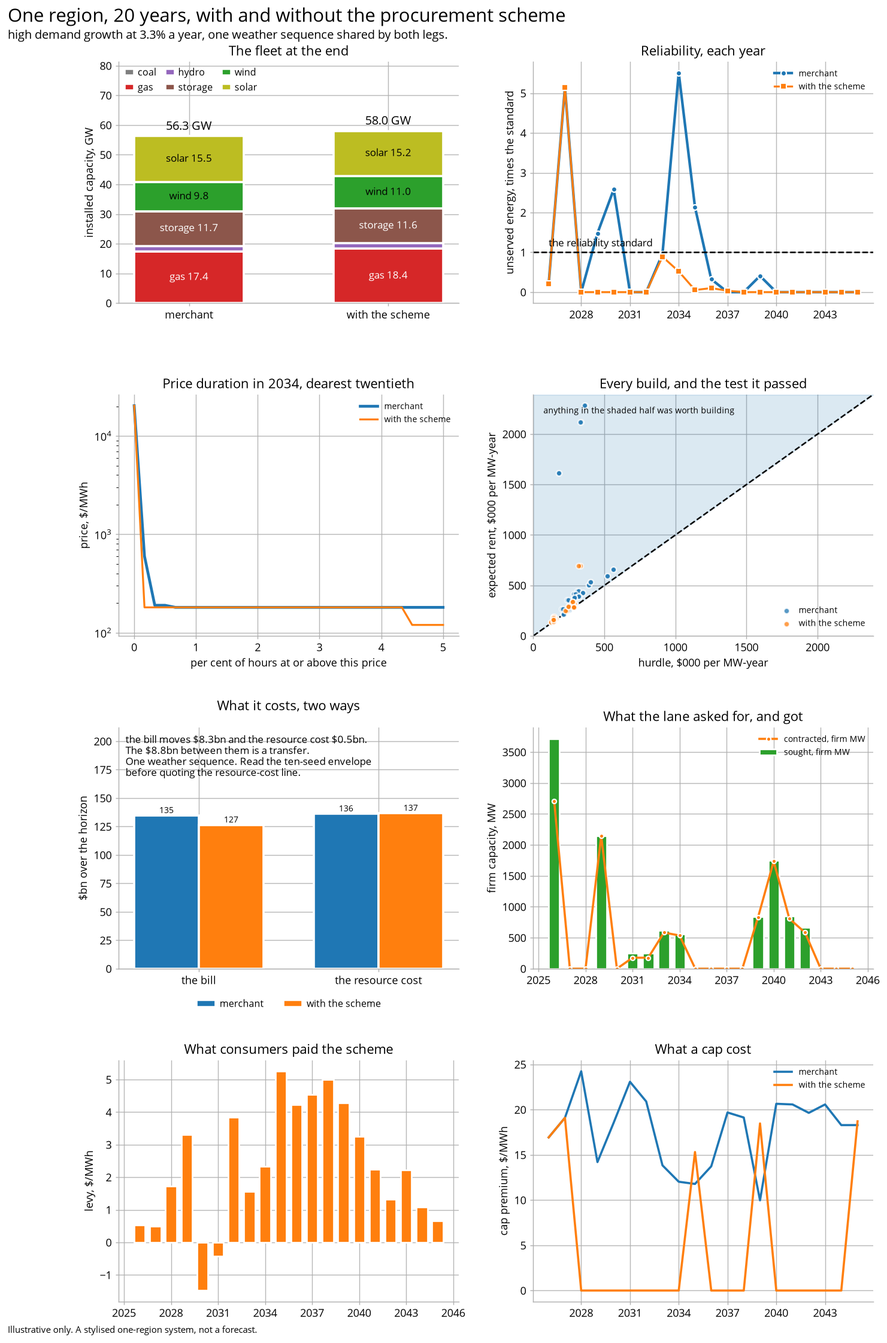
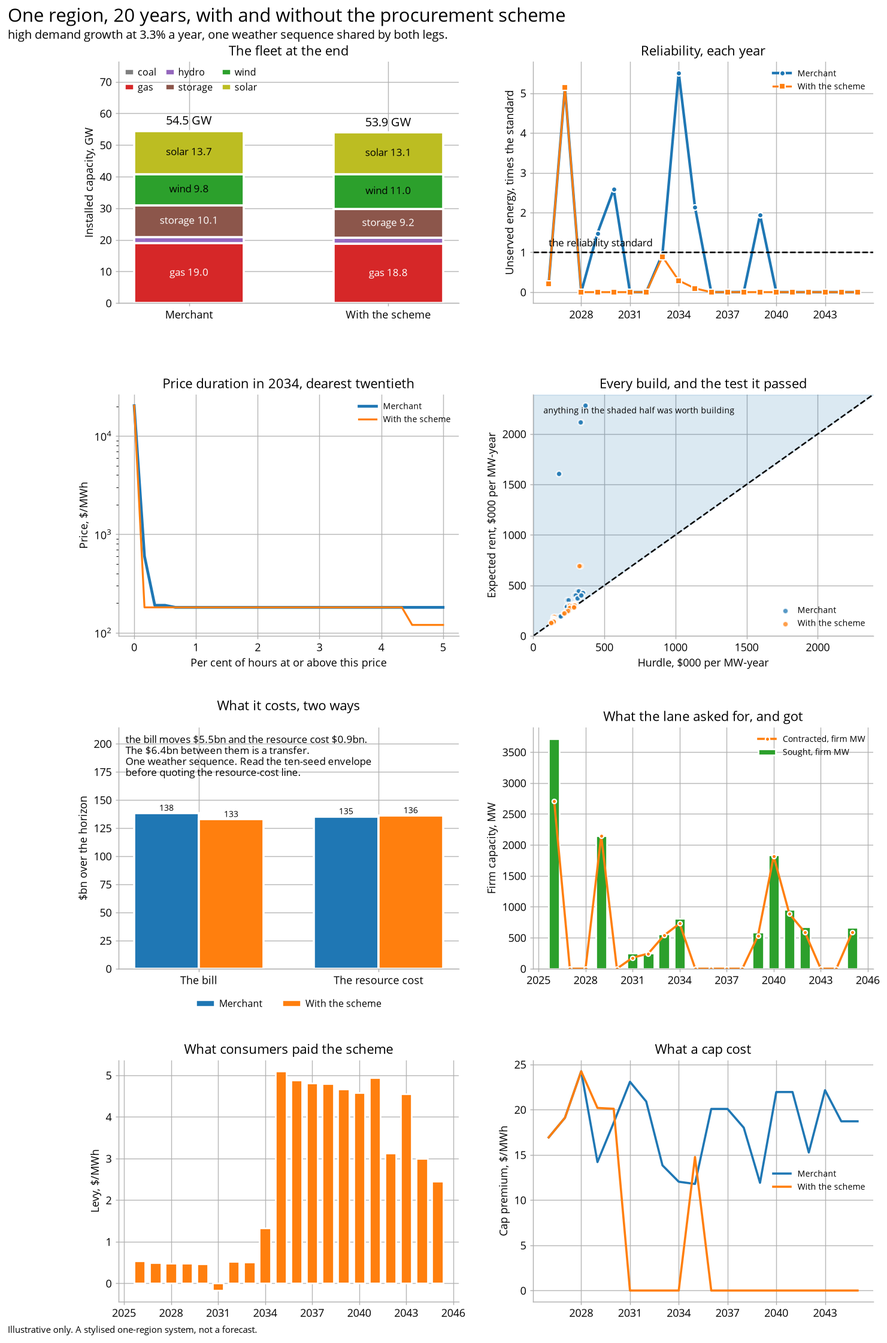
Regenerate every published number on the three rulings, and say what moved
Canonical pair: merchant 35.6 GWh, scheme 10.4; the bill falls $5.54bn and
the resource cost rises $0.87bn ($0.51bn of outage avoided against $1.38bn
more on plant and fuel); 14,750 MW awarded; the levy starts small because an
award pays nothing until the plant's fourth year. Ten seeds: reliability
better on eight, worse on two, the resource cost lower on two. The bracket
widens: 86 and 24 GWh under the default rule against 1,153 and 136 under the
repriced one, the scheme costing $4.64bn under one and saving $15.12bn under
the other. Doubling the build ceiling still removes the whole reliability
effect on every seed tested. The hurdle range is $332,000 to $358,000 and the
marginal feedback $69,000 per 600 MW of wind. The calibration, the cap's tail
concentration, the reliability curve, ceiling binding, the arrival story, the
demand-response value, the underwrite's three of four and the exit rule's
silence are unchanged.

diff --git a/KNOWN_LIMITATIONS.md b/KNOWN_LIMITATIONS.md
@@ -20,13 +20,13 @@ The administrator has no view. It offers its position back at the market price f
 
 Investors' guess at what everyone else builds never settles. The forward view works out how much plant everyone else will build by trial, one step a year, while the actual fleet moves underneath it, so what the investment rule reads is a half-finished calculation chasing a target that has already moved. Read the assumed entry as a signal with the right sign and the right rough size, and never as a statement of where free entry would land.
 
-Consumers carry the contracted plant's risk for nothing. A plant under a scheme award is financed at a blended rate, cheaper in proportion to the share of its life the contract covers, because the price risk has moved to consumers. The resource cost books that cheaper capital as a real saving, which on the canonical seed comes to $1.38bn over the run. What consumers give up in carrying the risk is priced nowhere, so that figure is the most the omission can be.
+Consumers carry the contracted plant's risk for nothing. A plant under a scheme award is financed at a blended rate, cheaper in proportion to the share of its life the contract covers, because the price risk has moved to consumers. The resource cost books that cheaper capital as a real saving, which on the canonical seed comes to $1.39bn over the run. What consumers give up in carrying the risk is priced nowhere, so that figure is the most the omission can be.
 
 ## What the model gets wrong
 
-Decisions taken against a shared forecast do not see each other. Every producer prices every candidate as though it were the only thing being added to a market that contains none of the others, and a tick holds 12 such decisions against one forward view. What stops that running away is the annual build ceiling, which is a pacing choice rather than an economic force: on the canonical seed every megawatt of merchant build sits at the ceiling, in every technology-year anything is built, and doubling the ceiling leaves every megawatt at the cap. Price feedback exists and is far too weak to bind inside a year: adding 600 MW of wind to the forecast takes about $65,000 per megawatt-year off what the next block of wind is worth, so shutting wind off would take about 6,000 MW while the ceiling stops at 1,200. The economics decides which technologies get built and whether a year builds at all; the ceiling decides how much. The alternative rule, which reprices the forecast after each producer decides, is runnable (`--scenario repriced_investment`) and is the other end of the bracket described below.
+Decisions taken against a shared forecast do not see each other. Every producer prices every candidate as though it were the only thing being added to a market that contains none of the others, and a tick holds 12 such decisions against one forward view. What stops that running away is the annual build ceiling, which is a pacing choice rather than an economic force: on the canonical seed every megawatt of merchant build sits at the ceiling, in every technology-year anything is built, and doubling the ceiling leaves every megawatt at the cap. Price feedback exists and is far too weak to bind inside a year: adding 600 MW of wind to the forecast takes about $69,000 per megawatt-year off what the next block of wind is worth, so shutting wind off would take about 6,000 MW while the ceiling stops at 1,200. The economics decides which technologies get built and whether a year builds at all; the ceiling decides how much. The alternative rule, which reprices the forecast after each producer decides, is runnable (`--scenario repriced_investment`) and is the other end of the bracket described below.
 
-Exit cannot see a contract, and entry can. Entry reads the contract book and lowers the hurdle for cover already held. Exit reads nothing, so a plant whose price is fixed for 12 years by an award is tested for retirement against the spot prices the award insulates it from. On the packaged fleet this is latent, because the economic exit rule never fires: no plant reaches two consecutive loss-making years in a 20-year run, and the plants nearest to it are the old open-cycle units in the final year. It becomes live the moment someone changes the cost table or brings a retirement forward.
+Exit cannot see a contract, and entry can. Entry reads the contract book and lowers the hurdle for cover already held. Exit reads nothing, so a plant whose price is fixed for 12 years by an award is tested for retirement against the spot prices the award insulates it from. On the packaged fleet this is latent, because the economic exit rule never fires: no plant reaches two consecutive loss-making years in a 20-year run, and the plants nearest to it are the old combined-cycle unit, with one loss-making year on either leg, and the old open-cycle units in the final year. It becomes live the moment someone changes the cost table or brings a retirement forward.
 
 No one pays for the state scheme. The state capacity target writes real contracts that settle real money every year, and nothing charges it to anyone: the levy is computed only from the reliability administrator's position, and the target runs on the other leg against a different counterparty. A reader comparing a capacity target with a reliability lane on what they cost cannot do it here. Who should pay is a policy question with more than one defensible answer, so nothing has been made to charge it.
 
@@ -48,13 +48,13 @@ A modest gap in building is a huge gap in blackouts. Scale the packaged fleet's 
   <img alt="Unserved energy against firm capacity" src="outputs/canonical/reliability_curve.png">
 </picture>
 
-The model brackets how much a market builds, and the verdict on the scheme does not survive the bracket. Under the default rule the two legs of the canonical comparison shed 174 and 30 GWh on a reduced lattice; under the repriced rule, 844 and 140. The scheme cuts unserved energy by a factor of about six at either end, so the direction of its reliability effect travels. Its cost does not: it costs $1.88bn of resources under one rule and saves $8.24bn under the other, because a market that under-builds badly leaves far more outage for a scheme to avoid. The verdict on a procurement scheme turns on how badly you think a merchant market under-builds, which the model brackets rather than determines.
+The model brackets how much a market builds, and the verdict on the scheme does not survive the bracket. Under the default rule the two legs of the canonical comparison shed 86 and 24 GWh on a reduced lattice; under the repriced rule, 1,153 and 136. The scheme cuts unserved energy by a factor of between three and nine at the two ends, so the direction of its reliability effect travels. Its cost does not: it costs $4.64bn of resources under one rule and saves $15.12bn under the other, because a market that under-builds badly leaves far more outage for a scheme to avoid. The verdict on a procurement scheme turns on how badly you think a merchant market under-builds, which the model brackets rather than determines.
 
 A lower hurdle changes what gets built, not only how much. A contract, a longer underwrite or a lower risk premium all lower the bar a project must clear. What that does to firm capacity depends on which technology clears the lowered bar first, and the technologies differ by a factor of 17 in how much firm capacity a megawatt of nameplate carries. What it does to reliability depends on when the plant arrives, which a count of firm megawatts does not record: a ten-year underwrite raises firm capacity on three of four weather seeds and lowers it on the fourth, and on two of those seeds unserved energy holds exactly whichever way the megawatts went. Read a capacity number and a reliability number as two separate answers.
 
 The scheme can buy plant that would have been built anyway. A bid is what a plant still needs after the certainty equivalent of what it expects to earn in the pool. Where that comes out at zero the plant needed nothing, and the lane awards it anyway at a cost of nothing. A zero-priced award is the signature of additionality failing, and it shows up on the first tick of a run where the near future looks short enough to make everything look profitable. Read it as a finding rather than as capacity the scheme delivered.
 
-Part of the scheme's effect is reallocation, not addition. The auction runs before the investment step and draws on the same annual build ceiling, so an award consumes room the market would otherwise have used. On the canonical seed 17,600 MW of merchant build makes way for 13,750 MW of awards, and the scheme leg ends with 3,850 MW less plant and 2,132 MW less firm capacity on the table than the market alone, while shedding a third as much energy: 11.0 GWh against 32.6. What the awards displace is the firm plant the market would have built later. More than half of the merchant leg's firm capacity is commissioned from 2040 on, after the years it was short in, and some of it after the run ends; the scheme leg's arrives in the years the market sheds in. What the scheme buys is plant standing in the right years, at the cost of the plant the market would have built later.
+Part of the scheme's effect is reallocation, not addition. The auction runs before the investment step and draws on the same annual build ceiling, so an award consumes room the market would otherwise have used. On the canonical seed 12,050 MW of merchant build makes way for 14,750 MW of awards, and the scheme leg ends with 2,700 MW more plant but 535 MW less firm capacity on the table than the market alone, while shedding less than a third as much energy: 10.4 GWh against 35.6. What the awards displace is the firm plant the market would have built later. More than half of the merchant leg's firm capacity is commissioned from 2040 on, after the years it was short in, and some of it after the run ends; the scheme leg's arrives in the years the market sheds in. What the scheme buys is plant standing in the right years, at the cost of the plant the market would have built later.
 
 <picture>
   <source media="(prefers-color-scheme: dark)" srcset="outputs/canonical/arrival_dark.png">
@@ -65,16 +65,16 @@ A scheme cannot fix a year that arrives before its plant does. The first two or 
 
 The levy can run either way. The administrator buys a hedge from each awarded plant at the price the auction struck and sells it on to retailers at the market price. What it never recovers is the top-up that carried the bid, which is the scheme's cost. It also holds the position for as long as no one has bought it, so when prices come in above the projection the levy is a rebate and when they come in below, consumers pay. Over a 20-year run it changes sign; the cost of the capacity is the bids, which `compare` reports separately.
 
-A capacity target buys capacity, and the model will not let it buy reliability. The reliability lane buys delivered firm megawatts, sized on the projected shortfall. A state target buys nameplate megawatts against a number in a policy. On the packaged fleet it contracts 6,900 MW of wind and solar over 20 years, the market builds 7,200 MW less of its own through the shared ceiling, and unserved energy moves from 32.6 GWh to 33.2. Every milestone is missed, because no one could build it that fast, and most of what it buys costs almost nothing, because wind and solar already clear their own hurdles here. Adding the two instruments' megawatts together is the mistake this arrangement exists to make impossible.
+A capacity target buys capacity, and the model will not let it buy reliability. The reliability lane buys delivered firm megawatts, sized on the projected shortfall. A state target buys nameplate megawatts against a number in a policy. On the packaged fleet it contracts 6,900 MW of wind and solar over 20 years, the market builds 7,900 MW less of its own through the shared ceiling, and unserved energy moves from 35.6 GWh to 33.2. Every milestone is missed, because no one could build it that fast, and most of what it buys costs almost nothing, because wind and solar already clear their own hurdles here. Adding the two instruments' megawatts together is the mistake this arrangement exists to make impossible.
 
-The scheme's worth depends on which future the market turned out to be in. Across ten seeds the scheme improves reliability on seven and worsens it on three, and lowers the total resource cost on three. Where it avoids outage it usually spends more on plant and fuel than the outage was worth; on the three seeds where it sheds more than the market alone, all low or central growth, the two legs come level once the build ceiling is doubled. What the scheme buys on most draws is reliability, at a price in real resources, and whether the price is worth paying turns on the value of lost load, which is a regulatory figure here and not a measurement.
+The scheme's worth depends on which future the market turned out to be in. Across ten seeds the scheme improves reliability on eight and worsens it on two, and lowers the total resource cost on two. Where it avoids outage it usually spends more on plant and fuel than the outage was worth; on the two seeds where it sheds more than the market alone, both low growth, the two legs come level once the build ceiling is doubled. What the scheme buys on most draws is reliability, at a price in real resources, and whether the price is worth paying turns on the value of lost load, which is a regulatory figure here and not a measurement.
 
 <picture>
   <source media="(prefers-color-scheme: dark)" srcset="outputs/canonical/ten_seeds_dark.png">
   <img alt="Outage avoided and plant and fuel spent, per draw, grouped by growth path" src="outputs/canonical/ten_seeds.png">
 </picture>
 
-The build ceiling bounds every reliability claim above. Run the same comparison at twice the annual ceiling and the scheme's whole effect disappears on every seed tested: the three it harmed come level and the one it helped most goes from a 28.5 GWh gain to none. The merchant leg gains far more from the extra room than the scheme leg does, which is what to expect if a large part of what the scheme provides is permission to build sooner. The reliability comparison is substantially a statement about a pacing parameter, and four is no more correct than two. A reader who takes one number from this page should take that one.
+The build ceiling bounds every reliability claim above. Run the same comparison at twice the annual ceiling and the scheme's whole effect disappears on every seed tested: the two it harmed come level and the one it helped most goes from a 25.2 GWh gain to none. The merchant leg gains far more from the extra room than the scheme leg does, which is what to expect if a large part of what the scheme provides is permission to build sooner. The reliability comparison is substantially a statement about a pacing parameter, and four is no more correct than two. A reader who takes one number from this page should take that one.
 
 When buyers and sellers negotiate, both start from the same number. The option that makes the two sides of the contract market find a price, rather than both accepting a reference price, builds each side's curve by stepping away from that same reference in equal slices. Mirror images cross at the reference whatever their shape, and the volume traded depends on how finely the curves are cut and on whether that number is odd. The direction is real: assuming both sides accept the reference buys more cover, which flows into every producer's exposure and hurdle. The size is a setting, and not a magnitude to quote at a room.
 

diff --git a/outputs/canonical/README.md b/outputs/canonical/README.md
@@ -14,13 +14,13 @@ python tools/doc_figures.py           # the offer stack, the cap, the forward vi
 
 `comparison.txt` is the second command's own output, so it has to be redirected. Without the `tee` it is the one file here that does not update, and it goes stale silently while everything around it changes.
 
-`comparison.csv` and `comparison.txt` are one paired run: 20 years, one seed, both legs on the same weather sequence. Read the two cost lines together. The scheme moves the bill down by $8.26bn and the resource cost up by $0.53bn, and the $8.79bn between them is a transfer from generators to consumers rather than a saving by anyone. The two lines disagree in direction on this seed, which is why both are printed and never one: the bill alone would call a scheme that consumed $0.53bn of real resources an eight-billion-dollar saving.
+`comparison.csv` and `comparison.txt` are one paired run: 20 years, one seed, both legs on the same weather sequence. Read the two cost lines together. The scheme moves the bill down by $5.54bn and the resource cost up by $0.87bn, and the $6.41bn between them is a transfer from generators to consumers rather than a saving by anyone. The two lines disagree in direction on this seed, which is why both are printed and never one: the bill alone would call a scheme that consumed $0.87bn of real resources a five-billion-dollar saving.
 
-Underneath the total, the scheme avoids $0.44bn of outage and spends $0.97bn more on fuel, fixed costs and capital to do it. Whether that trade is worth taking is a question about the value of lost load, which is a regulatory figure here and not a measurement.
+Underneath the total, the scheme avoids $0.51bn of outage and spends $1.38bn more on fuel, fixed costs and capital to do it. Whether that trade is worth taking is a question about the value of lost load, which is a regulatory figure here and not a measurement.
 
-Read all of that as this draw's rather than the model's. `ten_seeds.csv` beside this file is 10 seeds of the same comparison. The scheme improves reliability on seven of the 10 and worsens it on three, and it lowers the total resource cost on three. The outage it avoids runs from -$0.04bn to +$0.58bn, and what it spends on fuel, fixed costs and capital runs from $5.51bn more than the market alone to $1.08bn less. Where it avoids outage it usually spends more than the outage was worth, so the total goes against it on six of those seven seeds; where it spends less, it has mostly bought less reliability.
+Read all of that as this draw's rather than the model's. `ten_seeds.csv` beside this file is 10 seeds of the same comparison. The scheme improves reliability on eight of the 10 and worsens it on two, and it lowers the total resource cost on two. The outage it avoids runs from -$0.04bn to +$0.51bn, and what it spends on fuel, fixed costs and capital runs from $5.21bn more than the market alone to $4.67bn less. Where it avoids outage it usually spends more than the outage was worth, so the total goes against it on seven of those eight seeds; the one draw where it spends far less is the one where it has bought less reliability.
 
-What holds across draws is the ordering by growth. On the three low-growth draws the scheme avoids almost no outage, -$0.04bn to $0.10bn, and buys 4,950 to 5,500 MW; on the five central draws it avoids -$0.02bn to $0.25bn and buys 6,900 to 10,600 MW; on the two high-growth draws it avoids $0.44bn and $0.58bn and buys 13,750 and 9,150 MW. It responds to the future it is in, which it only half knows. This seed is a high-growth one, which is the flattering end of the range.
+What holds across draws is the ordering by growth. On the three low-growth draws the scheme avoids almost no outage, -$0.04bn to $0.10bn, and buys 5,500 to 6,150 MW; on the five central draws it avoids $0.13bn to $0.26bn and buys 6,300 to 11,500 MW; on the two high-growth draws it avoids $0.22bn and $0.51bn and buys 6,750 and 14,750 MW. It responds to the future it is in, which it only half knows. This seed is a high-growth one, which is the flattering end of the range.
 
 <picture>
   <source media="(prefers-color-scheme: dark)" srcset="ten_seeds_dark.png">
@@ -45,9 +45,9 @@ The most useful rows are the first few, where both legs shed exactly the same en
 
 Two caveats before quoting the cost lines.
 
-Every figure here was produced under the default investment rule, in which each investor prices its project against a forecast containing none of the others' projects. The alternative rule, in which each is offered a market containing the one before it, leaves the merchant leg nearly five times worse on unserved energy, and the scheme goes from costing $1.88bn of resources to saving $8.24bn. `tools/bracket_check.py` runs both ends. The direction of the reliability effect survives the choice of rule; its size does not.
+Every figure here was produced under the default investment rule, in which each investor prices its project against a forecast containing none of the others' projects. The alternative rule, in which each is offered a market containing the one before it, leaves the merchant leg thirteen times worse on unserved energy, and the scheme goes from costing $4.64bn of resources to saving $15.12bn. `tools/bracket_check.py` runs both ends. The direction of the reliability effect survives the choice of rule; its size does not.
 
-Every figure was also produced at an annual build ceiling of two concurrent projects per technology. Doubling it removes the scheme's whole reliability effect on all four seeds tested: the three where the scheme made reliability worse come level, and the one where it helped most goes from a 28.5 GWh gain to none. `tools/ceiling_sensitivity.py` runs it. The reliability comparison is substantially a statement about that pacing parameter, and neither value is more correct than the other.
+Every figure was also produced at an annual build ceiling of two concurrent projects per technology. Doubling it removes the scheme's whole reliability effect on all three seeds tested: the two where the scheme made reliability worse come level, and the one where it helped most goes from a 25.2 GWh gain to none. `tools/ceiling_sensitivity.py` runs it. The reliability comparison is substantially a statement about that pacing parameter, and neither value is more correct than the other.
 
 `price_duration.png` and `worst_week.png` come from `esem-sandbox run`:
 

diff --git a/README.md b/README.md
@@ -8,7 +8,7 @@ A least-cost model asks what an electricity system should contain. It minimises 
 
 This model asks who would build it. Each firm faces an income it cannot predict, values that income below its average because it is uncertain, and commits to an investment only when what it expects to earn covers what the plant costs to own. No one is obliged to build anything, so the answer is what a market delivers rather than what a central planner would order.
 
-The distance between those two answers is what the argument about electricity policy is really about. A gas peaker in this model costs about $136,000 per megawatt-year to own, and the firms want $331,000 to $357,000 before building one. About three-fifths of the bar is caution rather than cost, and a least-cost model cannot see that gap because no one in it is cautious.
+The distance between those two answers is what the argument about electricity policy is really about. A gas peaker in this model costs about $136,000 per megawatt-year to own, and the firms want $332,000 to $358,000 before building one. About three-fifths of the bar is caution rather than cost, and a least-cost model cannot see that gap because no one in it is cautious.
 
 That is also why a contract can cause plant to be built. A 12-year contract on all of a plant's output removes uncertainty rather than paying for it, and the bar falls by about a sixth; the three-year swaps that retailers buy on their own account move it by a few per cent. The same money handed over as a subsidy would do less.
 
@@ -104,7 +104,7 @@ The bracket matters because reliability is not proportional to capacity. Take fi
 
 Take a few per cent of firm plant away and blackouts multiply, so a small disagreement about what to build becomes a large one about whether the lights stay on.
 
-A second thing the model brackets is the scheme's own worth, because it depends on the future the market turns out to be in. Every run draws its weather sequence and its demand growth path from a seed. There are three growth paths, low, central and high, at 0.5, 1.9 and 3.3 per cent a year, drawn with equal odds, and the forward view keeps those odds whatever path the run is on. One run is therefore one draw, and what it shows is that draw's. Ten draws of the same comparison show the scheme buying reliability on seven of them and paying for it in real resources on most of those, while on three draws the market alone sheds less. Each row below is one draw. It splits the scheme's effect on the total resource cost into the outage it avoided, valued at the price cap, and what it saved or spent on plant and fuel; the diamond is the two together.
+A second thing the model brackets is the scheme's own worth, because it depends on the future the market turns out to be in. Every run draws its weather sequence and its demand growth path from a seed. There are three growth paths, low, central and high, at 0.5, 1.9 and 3.3 per cent a year, drawn with equal odds, and the forward view keeps those odds whatever path the run is on. One run is therefore one draw, and what it shows is that draw's. Ten draws of the same comparison show the scheme buying reliability on eight of them and paying for it in real resources on all but one of those, while on two draws the market alone sheds less. Each row below is one draw. It splits the scheme's effect on the total resource cost into the outage it avoided, valued at the price cap, and what it saved or spent on plant and fuel; the diamond is the two together.
 
 <picture>
   <source media="(prefers-color-scheme: dark)" srcset="outputs/canonical/ten_seeds_dark.png">
